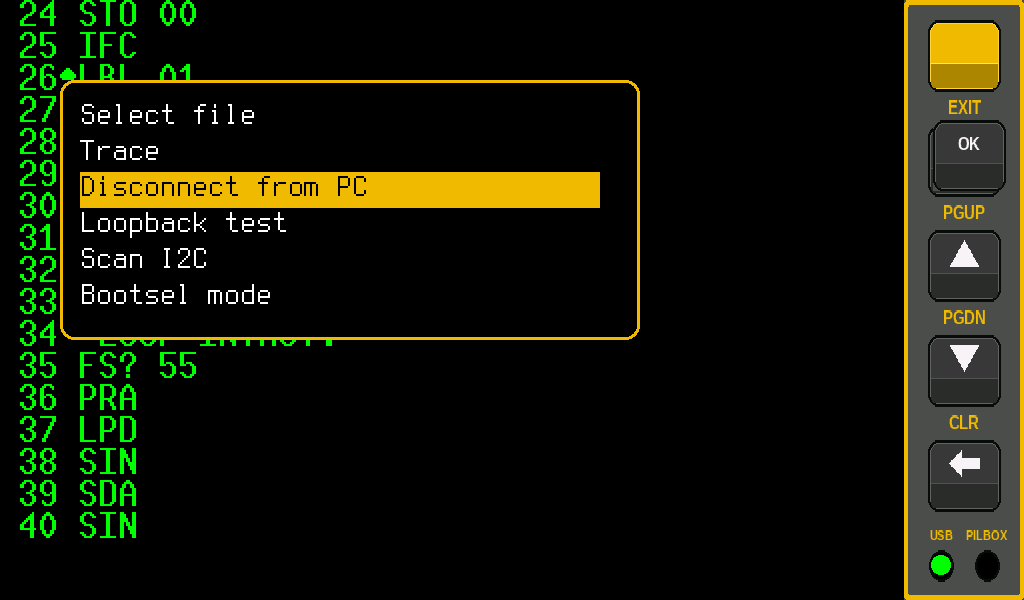
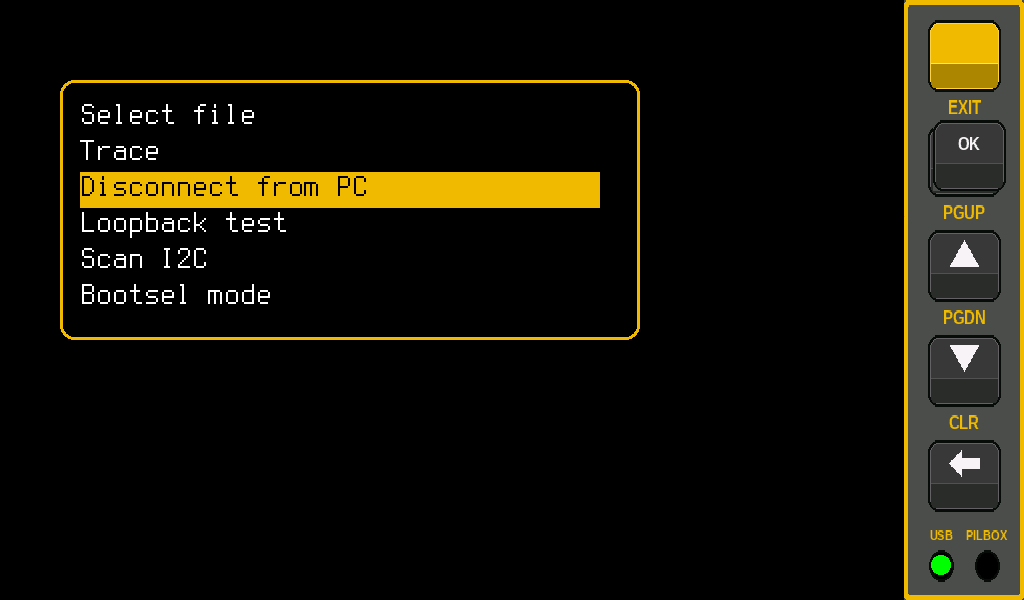
Updated manual with more pictures

Changed region(s): [[0.0, 0.0, 0.2188, 0.9], [0.1562, 0.09, 0.1875, 0.15]]

diff --git a/documents/USER_MANUAL.md b/documents/USER_MANUAL.md
@@ -112,9 +112,9 @@ grey when off.
 After a few seconds (or when you touch the screen) HIPI is ready. Anything
 the HP-41 prints now appears on the screen.
 
-![The start-up screen while HIPI starts](images/screen-startup.png)
+<a href="images/screen-startup.png"><img src="images/screen-startup.png" alt="The start-up screen while HIPI starts" width="512"></a>
 
-![The start-up screen when HIPI is ready](images/screen-startup-ready.png)
+<a href="images/screen-startup-ready.png"><img src="images/screen-startup-ready.png" alt="The start-up screen when HIPI is ready" width="512"></a>
 
 ---
 
@@ -125,7 +125,7 @@ the HP-41 prints now appears on the screen.
 The buttons are hidden to give the text more room. **Touch the right edge of the
 screen** to slide them in. They slide away again after 5 seconds without use.
 
-![The button strip](images/screen-button-strip.png)
+<a href="images/screen-button-strip.png"><img src="images/screen-button-strip.png" alt="The button strip" width="512"></a>
 
 | Button | Does | With **Shift** first |
 |--------|------|----------------------|
@@ -144,14 +144,14 @@ screen** to slide them in. They slide away again after 5 seconds without use.
 | **Bottom-left corner** | List of HIPI's HP-IL devices and their addresses. Swipe up/down to scroll |
 | **Swipe left or right** | Switch view. Each device with a view (display, plotter, cassette drive) has its own, in the order the devices are on the loop: swipe left for the next, right for the previous |
 
-![Info box](images/screen-infobox.png)
+<a href="images/screen-infobox.png"><img src="images/screen-infobox.png" alt="Info box" width="512"></a>
 
-![Device list](images/screen-devicelist.png)
+<a href="images/screen-devicelist.png"><img src="images/screen-devicelist.png" alt="Device list" width="512"></a>
 
 When you switch view, a yellow box shows the name of the new view for a moment.
 Touches are ignored while it's showing.
 
-![View switch](images/screen-swipe-splash.png)
+<a href="images/screen-swipe-splash.png"><img src="images/screen-swipe-splash.png" alt="View switch" width="512"></a>
 
 ---
 
@@ -162,21 +162,21 @@ Touches are ignored while it's showing.
 The HP 82163 video display: everything the HP-41 prints, like `PRA`, `PRX` or
 program listings. Scroll back with ▲ and ▼.
 
-![Display view](images/view-display.png)
+<a href="images/view-display.png"><img src="images/view-display.png" alt="Display view" width="512"></a>
 
 ### 5.2 Plotter
 
 Shows what the HP-41 draws on the plotter (`TFPLOT`). The drawing keeps growing
 while you look at other views. Clear it with **Display → Clear plotter**.
 
-![Plotter view](images/view-plotter.png)
+<a href="images/view-plotter.png"><img src="images/view-plotter.png" alt="Plotter view" width="512"></a>
 
 ### 5.3 Tape
 
 A picture of the HP 82161A cassette drive — and you can use it like the real
 thing.
 
-![Tape view](images/view-tape.png)
+<a href="images/view-tape.png"><img src="images/view-tape.png" alt="Tape view" width="512"></a>
 
 | On the picture | What it does |
 |----------------|--------------|
@@ -188,7 +188,7 @@ thing.
 | **BUSY** light | The drive is working, or the HP-41 is talking to it |
 | **Reels** | Spin while the tape is read, written or wound |
 
-![Lid open](images/view-tape-open.png)
+<a href="images/view-tape-open.png"><img src="images/view-tape-open.png" alt="Lid open" width="512"></a>
 
 ---
 
@@ -197,7 +197,7 @@ thing.
 Press **OK** to open the menu. **▲/▼** to move, **OK** to choose, **X** to go
 back. **Shift + OK** closes the menu from anywhere.
 
-![Main menu](images/menu-main.png)
+<a href="images/menu-main.png"><img src="images/menu-main.png" alt="Main menu" width="512"></a>
 
 ```
 Main menu
@@ -239,9 +239,9 @@ All settings are remembered, also after power off.
 - **Loopback test** — connect HIPI's IN and OUT with one HP-IL cable (no HP-41),
   then run it. "Loopback OK!" means the HP-IL side works.
 
-![Devices menu](images/menu-devices.png)
+<a href="images/menu-devices.png"><img src="images/menu-devices.png" alt="Devices menu" width="512"></a>
 
-![Loopback test](images/menu-loopback.png)
+<a href="images/menu-loopback.png"><img src="images/menu-loopback.png" alt="Loopback test" width="512"></a>
 
 ---
 
@@ -259,7 +259,7 @@ card reader, or straight from HIPI with **Connect to PC** (see
 
 Use **Config → Select file**, or touch the cassette window in the Tape view.
 
-![File list](images/menu-filelist.png)
+<a href="images/menu-filelist.png"><img src="images/menu-filelist.png" alt="File list" width="512"></a>
 
 - **No media** at the top means *no cassette in the drive*.
 - After choosing a file you get three options:
@@ -273,7 +273,7 @@ Press **▼** to see the cassette's contents: its name, size, free space and the
 list of files with type and size (in registers, like the HP-41's `DIR`).
 Scroll with ▲/▼ (Shift for a page), **OK** to use the cassette, **X** to go back.
 
-![Cassette contents](images/menu-lif-contents.png)
+<a href="images/menu-lif-contents.png"><img src="images/menu-lif-contents.png" alt="Cassette contents" width="512"></a>
 
 ---
 
@@ -321,7 +321,7 @@ Two things make plotter commands easy to type on the HP-41:
   at most 15 characters. `⊢` is **APPEND** (in ALPHA mode: shift + K), which
   adds the text to what's already in ALPHA.
 
-![Plotter example](images/example-plotter-box.png)
+<a href="images/example-plotter-box.png"><img src="images/example-plotter-box.png" alt="Plotter example" width="512"></a>
 
 ### 8.2 Temperature and pressure — `TFTEMP`
 
@@ -420,7 +420,7 @@ HIPI shows up on the computer as a few serial ports; the terminal is the
 program, for example PuTTY on Windows or `minicom` on Linux.
 
 <!-- TODO image: replace the placeholder below with:
-![Terminal program](images/example-terminal.png) -->
+<a href="images/example-terminal.png"><img src="images/example-terminal.png" alt="Terminal program" width="512"></a> -->
 > 📷 **Image placeholder:** A terminal program on the PC showing text from the calculator (`images/example-terminal.png`)
 
 ### 8.6 PC link — `PILBOX`
@@ -433,7 +433,7 @@ HIPI creates (on Linux usually `/dev/ttyACM1`) as its PILBox port.
 When no emulator is running, `PILBOX` simply passes everything on.
 
 <!-- TODO image: replace the placeholder below with:
-![pyILPER](images/example-pyilper.png) -->
+<a href="images/example-pyilper.png"><img src="images/example-pyilper.png" alt="pyILPER" width="512"></a> -->
 > 📷 **Image placeholder:** pyILPER connected to HIPI's PILBox port (`images/example-pyilper.png`)
 
 ---
@@ -452,13 +452,9 @@ computer without taking it out:
 
 While connected, the cassette drive is paused and screen dumps are not possible.
 
-<!-- TODO image: replace the placeholder below with:
-![SD card on the PC](images/pc-usb-drive.png) -->
-> 📷 **Image placeholder:** The SD card shown as a drive on the computer (`images/pc-usb-drive.png`)
+<a href="images/pc-usb-drive.png"><img src="images/pc-usb-drive.png" alt="SD card on the PC" width="512"></a>
 
-<!-- TODO image: replace the placeholder below with:
-![Connect to PC menu](images/menu-connect-pc.png) -->
-> 📷 **Image placeholder:** "Disconnect from PC" in the Config menu (`images/menu-connect-pc.png`)
+<a href="images/menu-connect-pc.png"><img src="images/menu-connect-pc.png" alt="Connect to PC menu" width="512"></a>
 
 ---
 
@@ -487,16 +483,12 @@ A new version comes as a `.uf2` file, `hipi_7_pico.uf2`, in the HIPI download.
 3. Copy the `.uf2` file onto that drive.
 4. HIPI restarts with the new version — the version number is shown at start-up.
 
-<!-- TODO image: replace the placeholder below with:
-![RP2350 drive](images/update-rp2350-drive.png) -->
-> 📷 **Image placeholder:** The RP2350 drive on the computer, with the .uf2 file being copied (`images/update-rp2350-drive.png`)
+<a href="images/update-rp2350-drive.png"><img src="images/update-rp2350-drive.png" alt="RP2350 drive" width="512"></a>
 
 **If HIPI doesn't start at all:** hold the small **BOOTSEL** button on the Pico
 board inside while you plug in the USB cable, then do step 3.
 
-<!-- TODO image: replace the placeholder below with:
-![BOOTSEL button](images/update-bootsel-button.jpg) -->
-> 📷 **Image placeholder:** Where the BOOTSEL button is (`images/update-bootsel-button.jpg`)
+<img src="images/update-bootsel-button.jpg" alt="BOOTSEL button" width="512">
 
 Your settings and files on the SD card are kept. If a new version needs new SD
 card files, they are in the SD card zip of that download.
